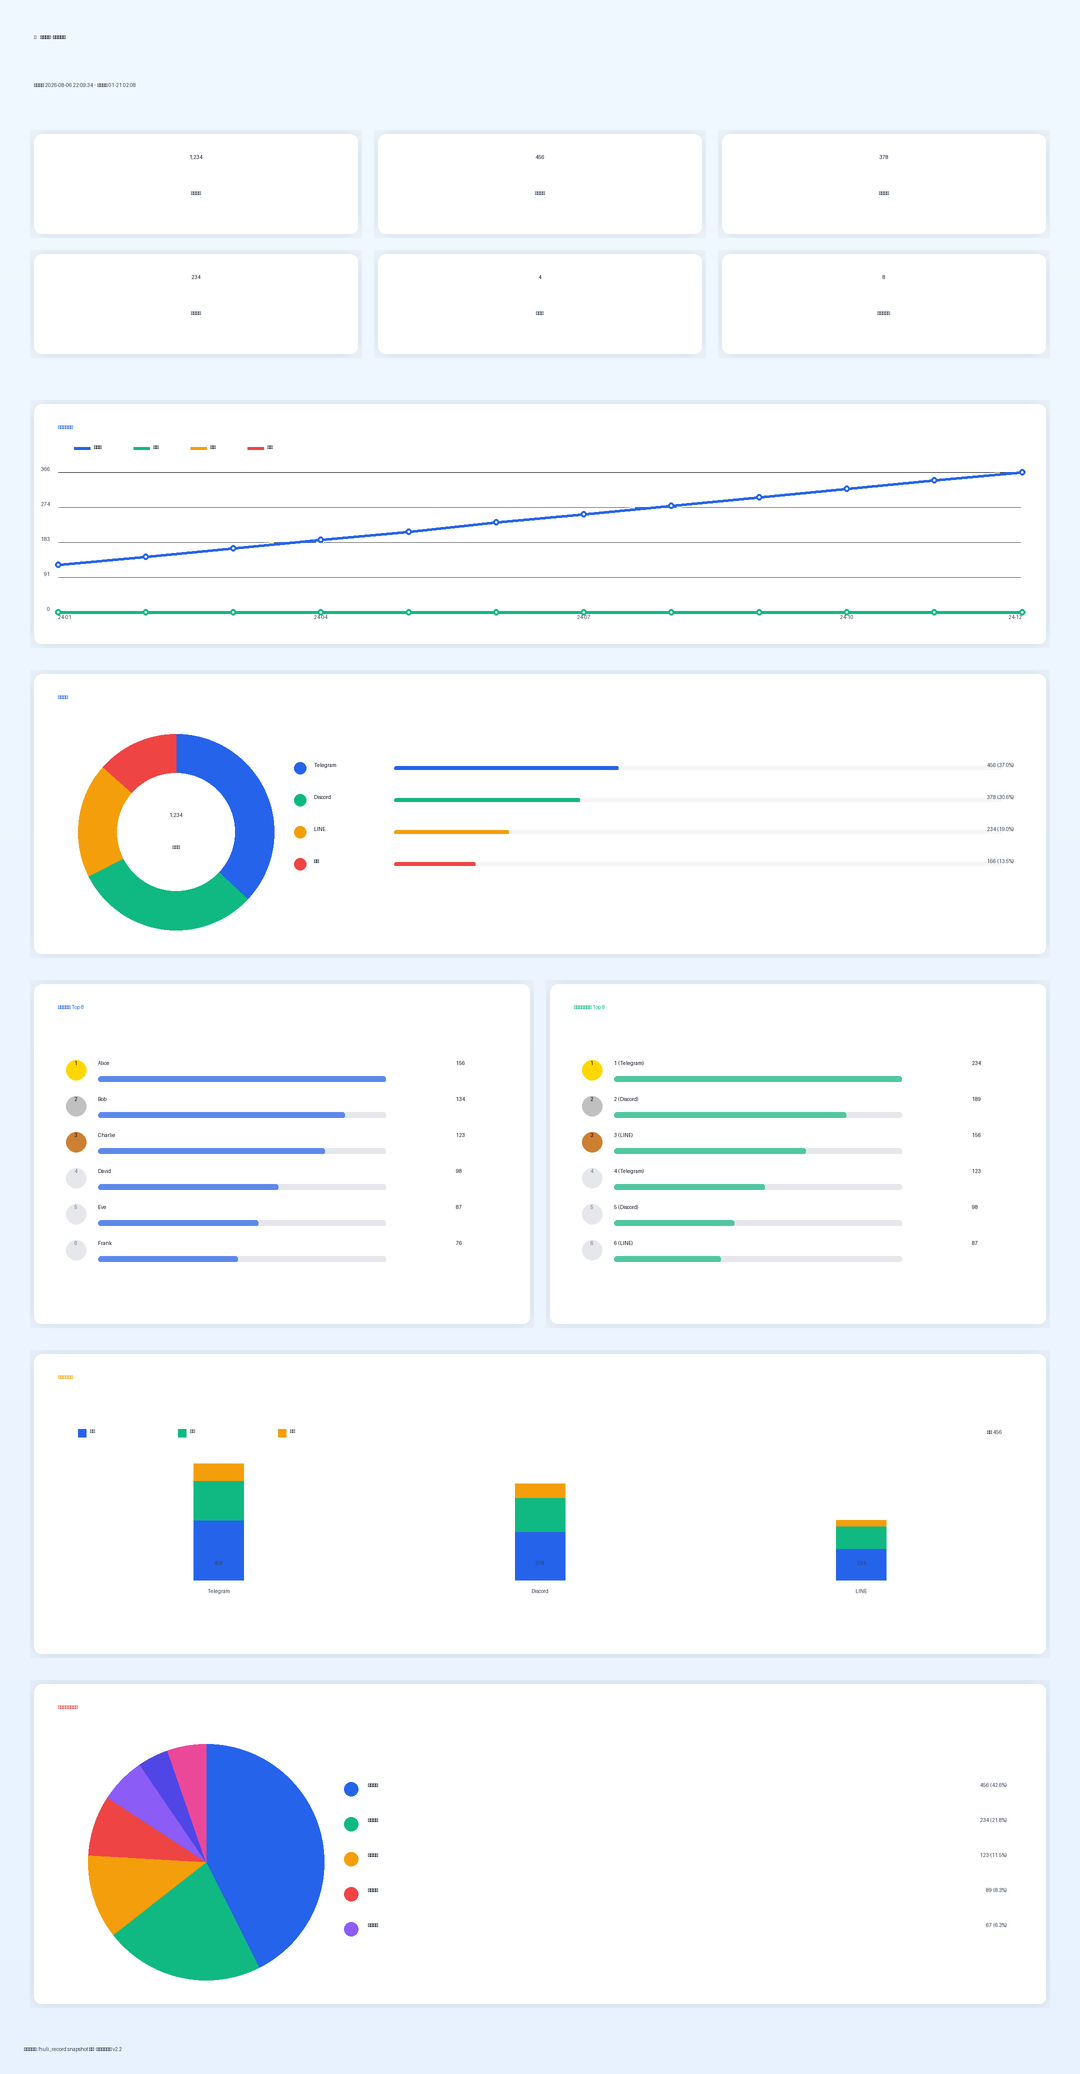
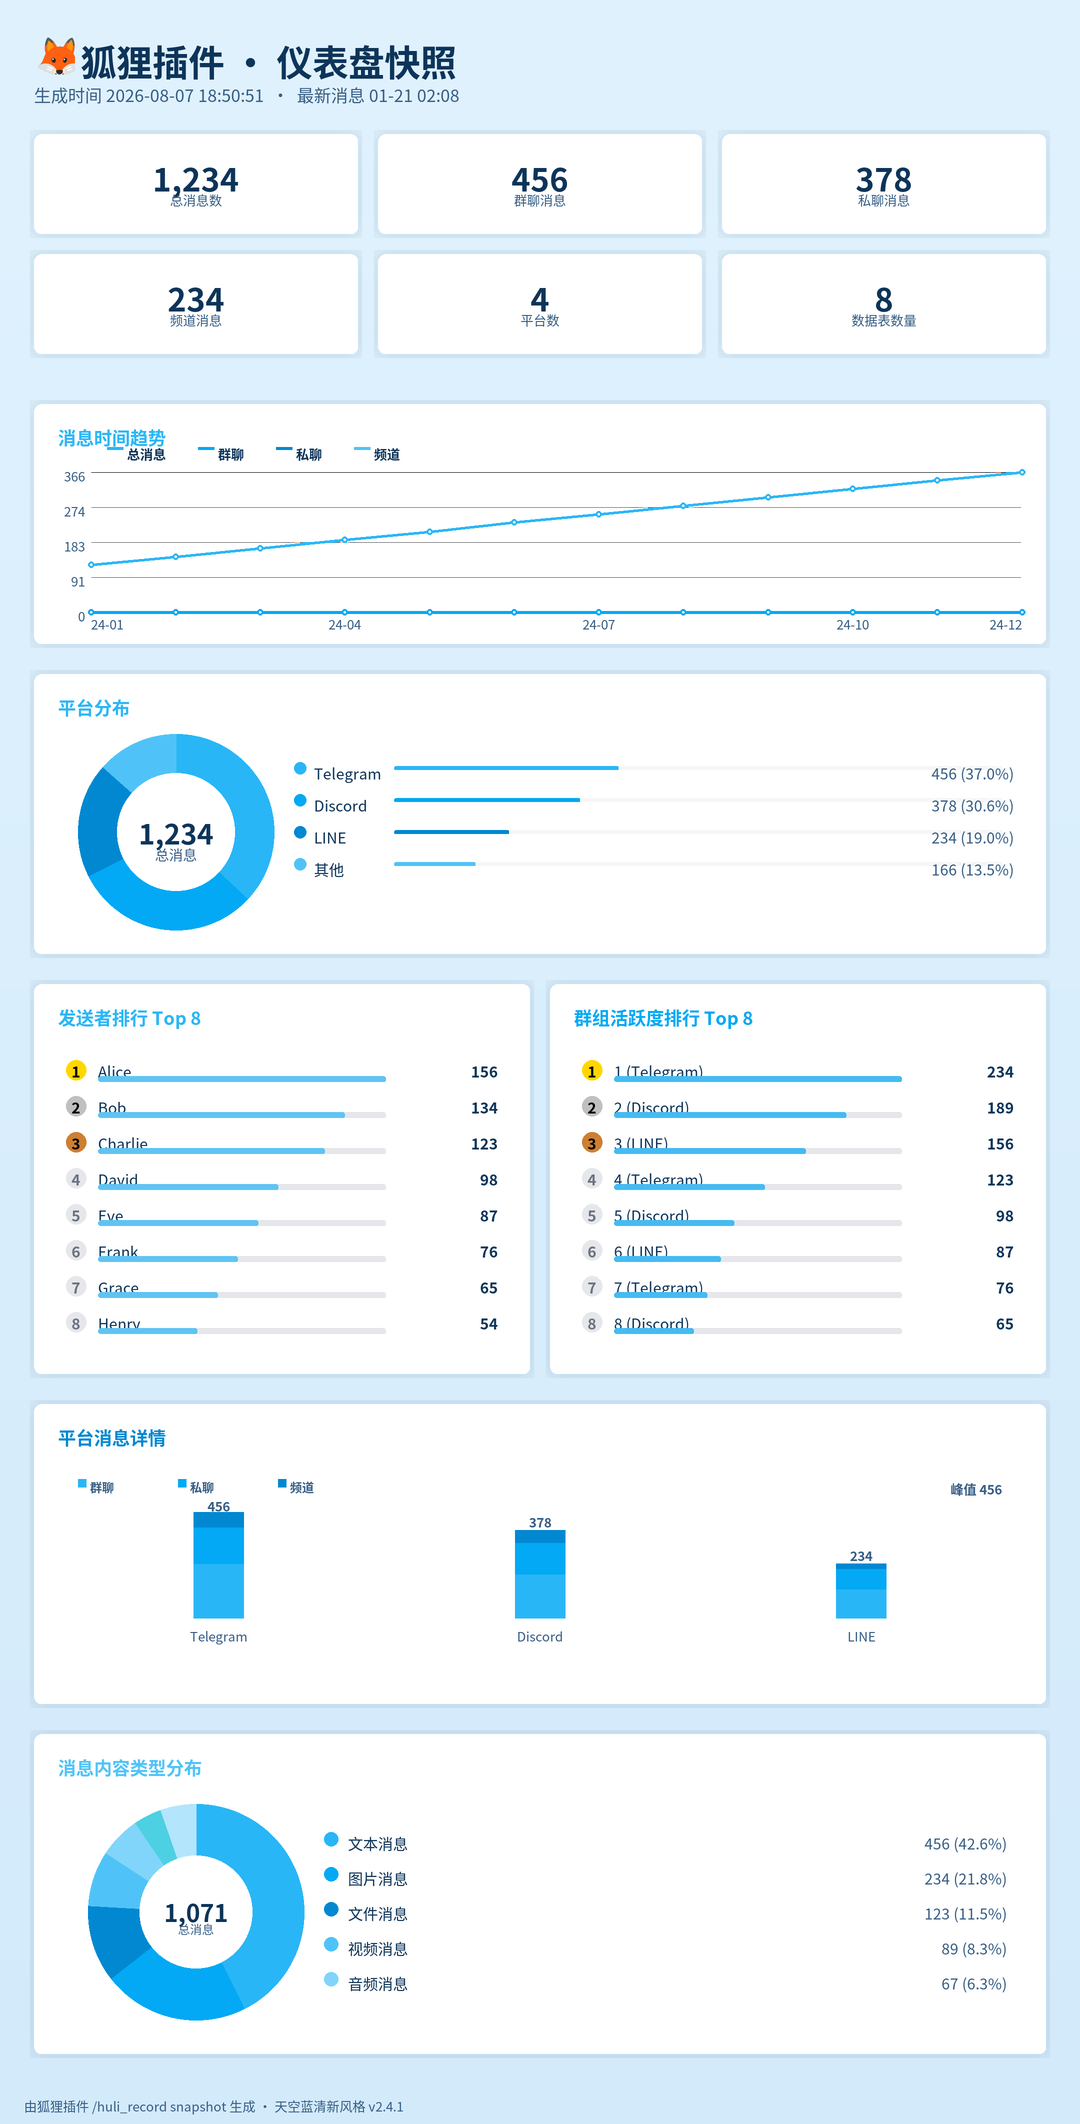
修复快照时间趋势卡片Y轴刻度超出边框问题，升级v2.4.1

diff --git a/pages/recorder/index.html b/pages/recorder/index.html
@@ -7,7 +7,7 @@
   <meta name="apple-mobile-web-app-capable" content="yes" />
   <meta name="apple-mobile-web-app-status-bar-style" content="default" />
   <title>狐狸插件</title>
-  <link rel="stylesheet" href="./style.css?v=2.4.0" />
+  <link rel="stylesheet" href="./style.css?v=2.4.1" />
 </head>
 <body>
   <nav class="navbar">

diff --git a/pages/recorder/app.js b/pages/recorder/app.js
@@ -1,5 +1,5 @@
 const bridge = window.AstrBotPluginPage;
-const BUILD_VERSION = '2.4.0';
+const BUILD_VERSION = '2.4.1';
 
 let bridgeReady = false;
 let pluginContext = null;

diff --git a/fox_toolbox/snapshot_renderer.py b/fox_toolbox/snapshot_renderer.py
@@ -531,7 +531,6 @@ def _draw_timeline(img, xy, timeline: List[Dict]):
     ]
 
     n = len(timeline)
-    step_x = inner_w / max(n - 1, 1) if n > 1 else inner_w
 
     # 计算数据点
     series_points = []
@@ -547,25 +546,35 @@ def _draw_timeline(img, xy, timeline: List[Dict]):
     
     max_c = max(max_c, 1)
 
+    # 计算Y轴标签最大宽度，为标签预留空间，避免超出卡片边框
+    f_axis = _get_font(_PX(13))
+    axis_w = 0
+    for g in range(5):
+        value = int(max_c * (1 - g / 4))
+        label = f"{value:,}"
+        axis_w = max(axis_w, _text_width(draw, label, f_axis))
+    plot_x0 = x0 + axis_w + _PX(12)
+    inner_w = x1 - plot_x0
+    step_x = inner_w / max(n - 1, 1) if n > 1 else inner_w
+
     # 绘制网格线
     for g in range(5):
         gy = y0 + _PX(8) + g * (inner_h - _PX(16)) / 4
         alpha = 30 if g == 0 or g == 4 else 15
-        draw.line([(x0, gy), (x1, gy)], fill=(0, 0, 0, alpha), width=_PX(1))
+        draw.line([(plot_x0, gy), (x1, gy)], fill=(0, 0, 0, alpha), width=_PX(1))
 
-    # 绘制Y轴标签
-    f_axis = _get_font(_PX(13))
+    # 绘制Y轴标签（右对齐到绘图区左侧，落在卡片边框内侧）
     for g in range(5):
         gy = y0 + _PX(8) + g * (inner_h - _PX(16)) / 4
         value = int(max_c * (1 - g / 4))
         label = f"{value:,}"
         tw = _text_width(draw, label, f_axis)
-        _draw_text(draw, (x0 - tw - _PX(8), gy - _PX(6)), label, f_axis, _TEXT_MEDIUM, img)
+        _draw_text(draw, (plot_x0 - tw - _PX(6), gy - _PX(6)), label, f_axis, _TEXT_MEDIUM, img)
 
     def to_points(vals):
         pts = []
         for i, v in enumerate(vals):
-            px = x0 + (i * step_x if n > 1 else inner_w / 2)
+            px = plot_x0 + (i * step_x if n > 1 else inner_w / 2)
             py = y1 - _PX(8) - (v / max_c) * (inner_h - _PX(16))
             pts.append((px, py))
         return pts
@@ -586,7 +595,7 @@ def _draw_timeline(img, xy, timeline: List[Dict]):
 
     # 绘制图例
     f_legend = _get_font(_PX(13), bold=True)
-    lx = x0 + _PX(16)
+    lx = plot_x0 + _PX(16)
     ly = y0 - _PX(20)
     
     for label, key, color in series_defs:
@@ -605,9 +614,9 @@ def _draw_timeline(img, xy, timeline: List[Dict]):
         if 0 <= i < n:
             label = str(timeline[i].get("date", ""))[-5:]
             tw = _text_width(draw, label, f_lbl)
-            px = x0 + (i * step_x if n > 1 else inner_w / 2)
+            px = plot_x0 + (i * step_x if n > 1 else inner_w / 2)
             lpx = px - tw / 2
-            lpx = max(x0, min(lpx, x1 - tw))
+            lpx = max(plot_x0, min(lpx, x1 - tw))
             _draw_text(draw, (lpx, y1 - _PX(6)), label, f_lbl, _TEXT_MEDIUM, img)
 
 
@@ -1144,7 +1153,7 @@ def render_snapshot(
 
     # 8. 底部水印
     draw = ImageDraw.Draw(img)
-    watermark_text = "由狐狸插件 /huli_record snapshot 生成 · 天空蓝清新风格 v2.4.0"
+    watermark_text = "由狐狸插件 /huli_record snapshot 生成 · 天空蓝清新风格 v2.4.1"
     f_watermark = _get_font(_PX(13))
     _draw_text(draw, (_PX(24), y + _PX(12)), watermark_text, f_watermark, _TEXT_MEDIUM, img)
 

diff --git a/README.md b/README.md
@@ -5,7 +5,7 @@
 [![AstrBot](https://img.shields.io/badge/AstrBot-%3E4.16%2C%3C5-blue?style=for-the-badge)](https://github.com/Soulter/astrbot)
 [![Python](https://img.shields.io/badge/Python-3.12+-green?style=for-the-badge)](https://www.python.org/)
 [![License](https://img.shields.io/badge/License-AGPL--3.0-blue?style=for-the-badge)](LICENSE)
-[![Version](https://img.shields.io/badge/Version-2.4.0-orange?style=for-the-badge)](CHANGELOG.md)
+[![Version](https://img.shields.io/badge/Version-2.4.1-orange?style=for-the-badge)](CHANGELOG.md)
 
 **全平台聊天消息自动记录 | MySQL 5.7 存储 | Web 管理面板 | 全文搜索 | 插件 API**
 
@@ -547,6 +547,10 @@ ruff format .
 ---
 
 ## 📝 更新日志
+
+### v2.4.1（2026-08-07）
+
+- **修复快照时间趋势卡片文字超出边框**：Y 轴刻度标签不再越出玻璃卡片，数据量级大时同样保持清晰完整
 
 ### v2.4.0（2026-08-07）
 

diff --git a/CHANGELOG.md b/CHANGELOG.md
@@ -5,6 +5,14 @@ All notable changes to this project will be documented in this file.
 The format is based on [Keep a Changelog](https://keepachangelog.com/en/1.1.0/),
 and this project adheres to [Semantic Versioning](https://semver.org/spec/v2.0.0.html).
 
+## [2.4.1] - 2026-08-07
+
+### Fixed
+- **修复快照时间趋势卡片文字超出边框**：Y 轴刻度标签原来绘制在图表区左侧（x0 左边），当数据量级较大时（如 1,000 以上）会越过玻璃卡片边框。现在先计算 Y 轴标签最大宽度并为图表主体预留空间，刻度标签右对齐落在卡片边框内侧
+
+### Changed
+- 快照水印版本号同步升级到 `v2.4.1`
+
 ## [2.4.0] - 2026-08-07
 
 ### Changed
